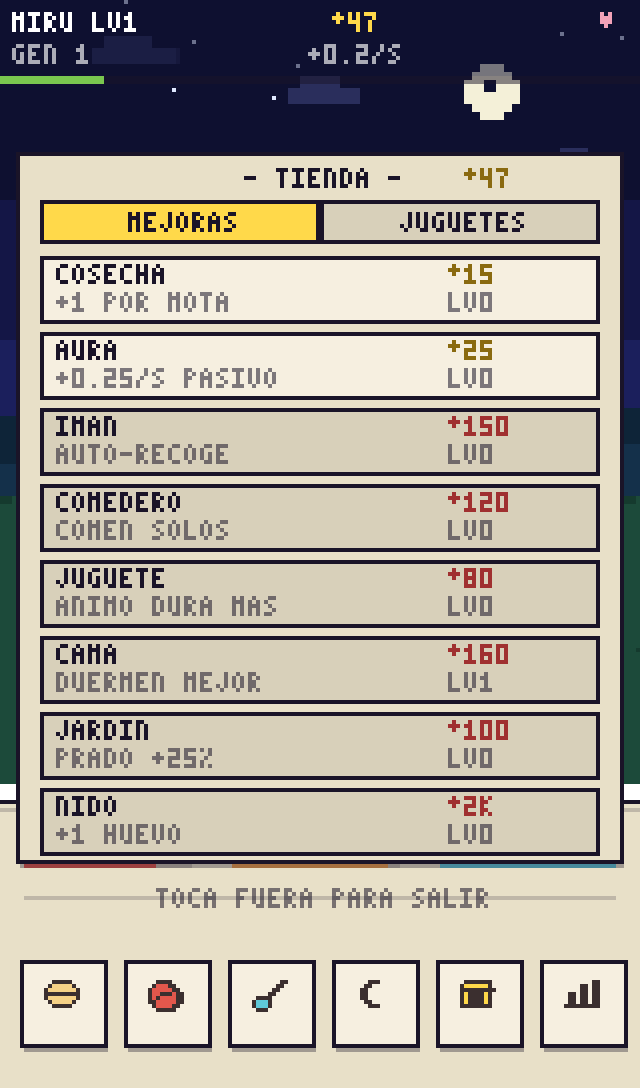
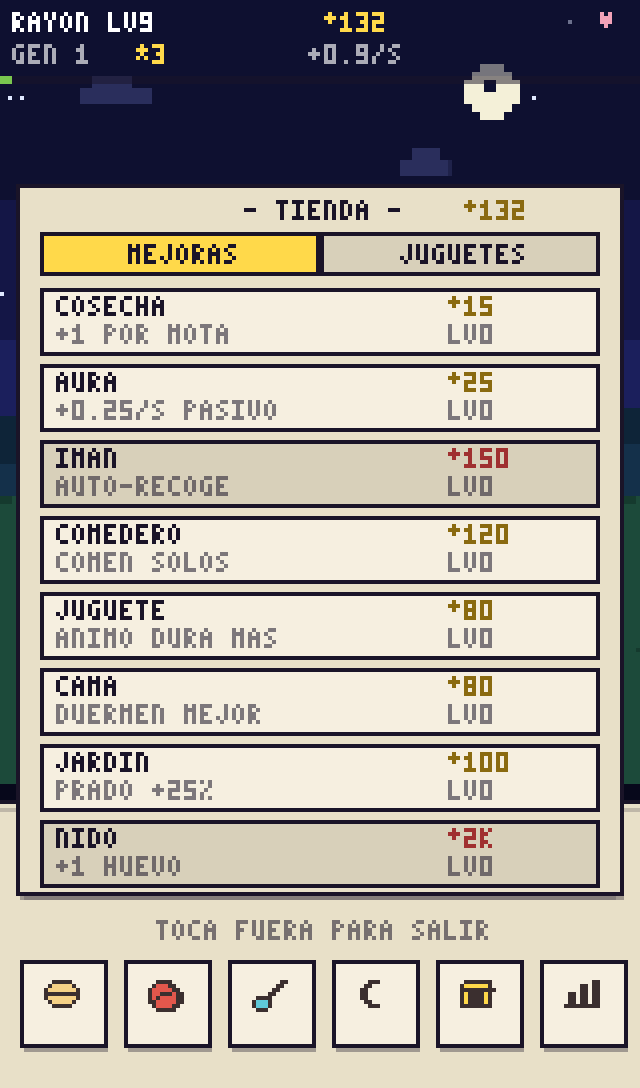
📱 Móvil a pantalla completa y repaso integral de menús
Móvil (iPhone):
- Escalado entero en píxeles FÍSICOS (no CSS): en retina permite
  fracciones tipo 7/3 y el juego llena la pantalla sin perder nitidez
- Usa visualViewport + zonas seguras (notch/barra) vía env(safe-area)
- Letterbox negro puro (#000) y theme-color a juego

Menús:
- Fondo atenuado + deslizamiento sutil al abrir cualquier panel
- La fuente 3x5 aprende ( ) ~ : se acabaron los '?0/276?' en DATOS,
  EXPEDICION y el informe offline
- LOGROS: la fila 15 ya no pisa el pie del panel
- ALBUM/LOGROS/RELIQUIAS vuelven a DATOS (de donde se abren)
- Descripciones de FRUTA y PICANTE ya no desbordan su carta
- Textos de cierre unificados: TOCA FUERA PARA SALIR

diff --git a/src/main.js b/src/main.js
@@ -3,6 +3,28 @@
    BITXO — main: bucle principal y arranque
    ========================================================= */
 /* ---------------- BUCLE ---------------- */
+/* pantallas modales sobre el prado: fondo atenuado + deslizamiento al abrir */
+const MENU_DRAW = {
+  stats:drawStats, album:drawAlbum, ach:drawAch, relics:drawRelics,
+  exped:drawExped, ascendConfirm:drawAscendConfirm,
+  shop:drawShop, feed:drawFeedMenu, play:drawPlayMenu
+};
+function drawModals(now){
+  const menuFn = MENU_DRAW[UI.mode] || null;
+  const repFn = offlineReport ? drawOfflineReport : (UI.expReport ? drawExpReport : null);
+  if(!menuFn && !repFn){ UI.menuKey = null; return; }
+  const key = UI.mode + (repFn ? '+rep' : '');
+  if(UI.menuKey !== key){ UI.menuKey = key; UI.menuAt = now; }
+  const pr = Math.min(1, (now - UI.menuAt)/150);
+  const e = 1 - Math.pow(1-pr, 3);
+  ctx.fillStyle = 'rgba(8,9,28,' + (0.45*e).toFixed(3) + ')';
+  ctx.fillRect(0, 0, LW, LH);
+  ctx.save();
+  ctx.translate(0, Math.round((1-e)*8));
+  if(menuFn) menuFn();
+  if(repFn) repFn();
+  ctx.restore();
+}
 function frame(now){
   const dt = Math.min(100, now - lastT);
   lastT = now;
@@ -40,17 +62,7 @@ function frame(now){
     if(AP().sleeping) px(0,0,160,200,'rgba(10,8,30,0.35)');
     drawParticles(dt);
     drawHUD(now);
-    if(UI.mode==='stats') drawStats();
-    if(UI.mode==='album') drawAlbum();
-    if(UI.mode==='ach') drawAch();
-    if(UI.mode==='relics') drawRelics();
-    if(UI.mode==='exped') drawExped();
-    if(UI.mode==='ascendConfirm') drawAscendConfirm();
-    if(UI.mode==='shop') drawShop();
-    if(UI.mode==='feed') drawFeedMenu();
-    if(UI.mode==='play') drawPlayMenu();
-    if(offlineReport) drawOfflineReport();
-    else if(UI.expReport) drawExpReport();
+    drawModals(now);
     if(UI.pendingEvoNote){ UI.pendingEvoNote=false; toast('¡ALGUIEN EVOLUCIONO!', 3000); }
   }
   requestAnimationFrame(frame);

diff --git a/src/core/canvas.js b/src/core/canvas.js
@@ -4,15 +4,28 @@
    ========================================================= */
 const cv = document.getElementById('cv');
 const ctx = cv.getContext('2d');
+const wrapEl = document.getElementById('wrap');
 let SCALE = 2;
 function resize(){
-  const w = window.innerWidth, h = window.innerHeight;
-  SCALE = Math.max(1, Math.floor(Math.min(w/LW, h/LH)));
+  /* área útil: el visual viewport menos las zonas seguras (notch,
+     barra de inicio), que #wrap reserva con padding env() */
+  const cs = getComputedStyle(wrapEl);
+  const vv = window.visualViewport;
+  const w = (vv ? vv.width  : window.innerWidth)  - parseFloat(cs.paddingLeft) - parseFloat(cs.paddingRight);
+  const h = (vv ? vv.height : window.innerHeight) - parseFloat(cs.paddingTop)  - parseFloat(cs.paddingBottom);
+  /* escala entera en píxeles FÍSICOS (no CSS): en pantallas retina
+     permite fracciones tipo 7/3 y el juego llena el móvil sin perder
+     nitidez ni dejar medio lienzo de marco */
+  const dpr = window.devicePixelRatio || 1;
+  SCALE = Math.max(1, Math.floor(Math.min(w*dpr/LW, h*dpr/LH))) / dpr;
   cv.width = LW; cv.height = LH;
   cv.style.width = (LW*SCALE)+'px';
   cv.style.height = (LH*SCALE)+'px';
   ctx.imageSmoothingEnabled = false;
 }
-window.addEventListener('resize', resize); resize();
+window.addEventListener('resize', resize);
+window.addEventListener('orientationchange', resize);
+if(window.visualViewport) window.visualViewport.addEventListener('resize', resize);
+resize();
 
 function px(x,y,w,h,c){ ctx.fillStyle=c; ctx.fillRect(Math.round(x),Math.round(y),w,h); }

diff --git a/src/render/hud.js b/src/render/hud.js
@@ -203,7 +203,7 @@ function drawFeedMenu(){
     drawText(F.desc, cx+17, cy+22, 'rgba(26,20,40,0.55)');
     if(FAVES[AP().line]===F.id) drawText('♥', cx+58, cy+3, '#f2a2b8');
   }
-  drawTextC('FUERA PARA CANCELAR', 80, 220, 'rgba(26,20,40,0.5)');
+  drawTextC('TOCA FUERA PARA SALIR', 80, 220, 'rgba(26,20,40,0.5)');
 }
 function drawPlayMenu(){
   panel(8,88,144,102);
@@ -213,7 +213,7 @@ function drawPlayMenu(){
   card(106,102,42,38); drawTextC('?', 127, 107, '#6db1ff'); drawTextC('SIMON', 127, 118, K); drawTextC('MEMORIA', 127, 128, 'rgba(26,20,40,0.55)');
   card(14,146,62,30); drawTextC('ENTRENO', 45, 152, K); drawTextC('+FUERZA', 45, 163, 'rgba(26,20,40,0.55)');
   card(84,146,62,30); drawTextC('VIAJE >>', 115, 152, K); drawTextC('TESOROS', 115, 163, 'rgba(26,20,40,0.55)');
-  drawTextC('FUERA PARA CANCELAR', 80, 181, 'rgba(26,20,40,0.5)');
+  drawTextC('TOCA FUERA PARA SALIR', 80, 181, 'rgba(26,20,40,0.5)');
 }
 function drawExped(){
   panel(8,44,144,168);
@@ -230,7 +230,7 @@ function drawExped(){
     if(E.egg) drawText('HUEVO '+LINES[E.egg].name+' '+Math.round(E.eggP*100)+'%', 18, y+21, '#a03030');
     else drawText('VIAJE TRANQUILO', 18, y+21, 'rgba(26,20,40,0.4)');
   }
-  drawTextC('FUERA PARA VOLVER', 80, 204, 'rgba(26,20,40,0.5)');
+  drawTextC('TOCA FUERA PARA SALIR', 80, 204, 'rgba(26,20,40,0.5)');
 }
 function drawRelics(){
   panel(4,26,152,196);
@@ -310,7 +310,7 @@ function drawAch(){
   drawTextC('- LOGROS '+done+'/'+ACH.length+' -', 80, 31, K);
   for(let i=0;i<ACH.length;i++){
     const a = ACH[i], got = !!G.ach[a.id];
-    const y = 41 + i*12;
+    const y = 40 + i*11;
     px(10,y,7,7, got?'#7ac74f':'rgba(26,20,40,0.12)');
     px(10,y,7,1,K); px(10,y+6,7,1,K); px(10,y,1,7,K); px(16,y,1,7,K);
     drawText(a.name, 21, y+1, got? K : 'rgba(26,20,40,0.55)');

diff --git a/css/style.css b/css/style.css
@@ -1,3 +1,6 @@
-html,body{margin:0;padding:0;height:100%;background:#08091c;overflow:hidden;touch-action:manipulation;-webkit-user-select:none;user-select:none;}
-#wrap{position:fixed;inset:0;display:flex;align-items:center;justify-content:center;background:#08091c;}
+html,body{margin:0;padding:0;height:100%;background:#000;overflow:hidden;overscroll-behavior:none;touch-action:manipulation;-webkit-user-select:none;user-select:none;}
+#wrap{
+  position:fixed;inset:0;display:flex;align-items:center;justify-content:center;background:#000;
+  padding:env(safe-area-inset-top) env(safe-area-inset-right) env(safe-area-inset-bottom) env(safe-area-inset-left);
+}
 canvas{image-rendering:pixelated;image-rendering:crisp-edges;display:block;}

diff --git a/src/input.js b/src/input.js
@@ -36,9 +36,9 @@ function handleTap(x,y){
   if(UI.mode==='evolve'){ if(UI.evoT>2600) UI.mode='main'; return; }
   if(UI.mode==='ascendFX'){ if(UI.ascT>4200){ finishAscend(); } return; }
   if(UI.mode==='battle'){ battleTap(); return; }
-  if(UI.mode==='album'){ UI.mode='main'; SFX.tap(); return; }
-  if(UI.mode==='ach'){ UI.mode='main'; SFX.tap(); return; }
-  if(UI.mode==='relics'){ UI.mode='main'; SFX.tap(); return; }
+  if(UI.mode==='album'){ UI.mode='stats'; SFX.tap(); return; }
+  if(UI.mode==='ach'){ UI.mode='stats'; SFX.tap(); return; }
+  if(UI.mode==='relics'){ UI.mode='stats'; SFX.tap(); return; }
   if(UI.mode==='ascendConfirm'){
     if(y>150 && y<175){
       if(x<80){ doAscend(); } else { UI.mode='stats'; SFX.tap(); }

diff --git a/src/data/content.js b/src/data/content.js
@@ -52,9 +52,9 @@ const RELICS = [
 const FOODS = [
  {id:'racion', name:'RACION',    cost:5,  spr:'meal',   hunger:35, happy:0,  energy:0,  weight:1, desc:'+HAMBRE'},
  {id:'chuche', name:'CHUCHE',    cost:8,  spr:'snack',  hunger:8,  happy:18, energy:0,  weight:2, desc:'+ANIMO', snack:true},
- {id:'fruta',  name:'FRUTA',     cost:7,  spr:'fruta',  hunger:20, happy:4,  energy:10, weight:0, desc:'LIGERA +PILAS'},
+ {id:'fruta',  name:'FRUTA',     cost:7,  spr:'fruta',  hunger:20, happy:4,  energy:10, weight:0, desc:'SUAVE +PILAS'},
  {id:'pescado',name:'PESCADO',   cost:12, spr:'pescado',hunger:30, happy:0,  energy:0,  weight:1, desc:'+1 FUERZA', str:1},
- {id:'picante',name:'PICANTE',   cost:10, spr:'picante',hunger:5,  happy:6,  energy:30, weight:0, desc:'+PILAS ¡PICA!', spicy:true},
+ {id:'picante',name:'PICANTE',   cost:10, spr:'picante',hunger:5,  happy:6,  energy:30, weight:0, desc:'PICA: +PILAS', spicy:true},
  {id:'pastel', name:'PASTEL',    cost:25, spr:'pastel', hunger:50, happy:25, energy:0,  weight:4, desc:'FIESTA TOTAL'},
  {id:'seta',   name:'SETA RARA', cost:15, spr:'setita', hunger:0,  happy:0,  energy:0,  weight:0, desc:'¿¿¿???', gamble:true},
  {id:'sopa',   name:'SOPA ASTRAL',cost:40,spr:'sopa',   hunger:15, happy:15, energy:15, weight:0, desc:'+TODO +XP', xp:10}

diff --git a/index.html b/index.html
@@ -3,7 +3,7 @@
 <head>
 <meta charset="UTF-8">
 <meta name="viewport" content="width=device-width, initial-scale=1.0, maximum-scale=1.0, user-scalable=no, viewport-fit=cover">
-<meta name="theme-color" content="#0e1030">
+<meta name="theme-color" content="#000000">
 <meta name="description" content="BITXO — mascota virtual + idle incremental en pixel art. Cuida a tu bicho, cosecha motas, mejora su prado y asciéndelo al cielo para fundar una dinastía.">
 <meta property="og:title" content="BITXO">
 <meta property="og:description" content="Mascota virtual + idle incremental en pixel art, directa en tu navegador.">

diff --git a/src/core/font.js b/src/core/font.js
@@ -21,6 +21,7 @@ const FONT = {
  '.':"000000000000010",':':"000010000010000",'-':"000000111000000",
  '+':"000010111010000",'/':"001001010100100",'%':"101001010100101",
  '<':"001010100010001",'>':"100010001010100",
+ '(':"001010010010001",')':"100010010010100",'~':"000011110000000",
  '♥':"101111111010000",'★':"010111010101000",'✦':"010111010000000"
 };
 function drawText(s, x, y, col){